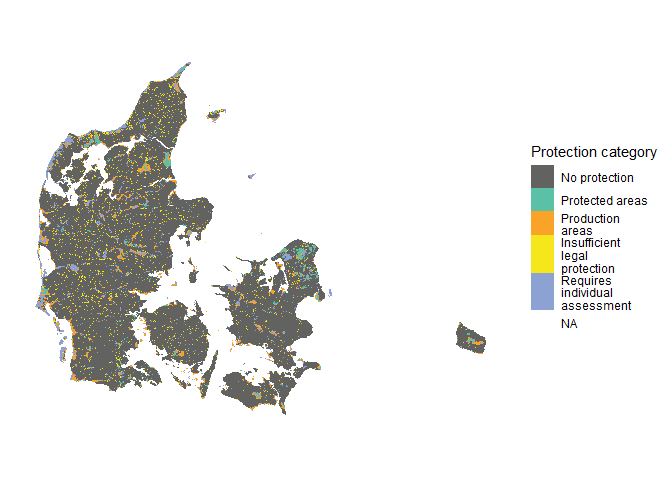
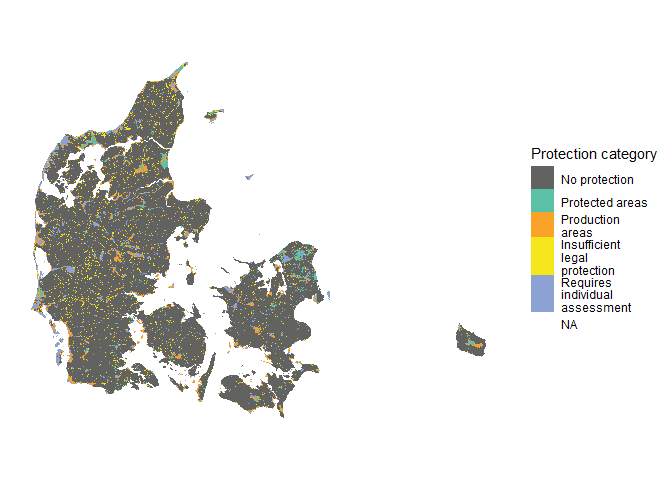
Fixed the total area of Denmark

diff --git a/README.md b/README.md
@@ -4,6 +4,7 @@
 # IdentifyingConservationGaps
 
 <!-- badges: start -->
+
 <!-- badges: end -->
 
 This repository documents the data and R code used to reproduce the
@@ -489,7 +490,7 @@ colnames(area_tbl) <- c("Protection", "area_km2")
 
 # Total land area (categories 1–5), used as denominator
 
-area_tbl$prop_land <- (area_tbl$area_km2 / 43144) * 100
+area_tbl$prop_land <- (area_tbl$area_km2 / Area_DK) * 100
 
 # Order by category code
 area_tbl <- area_tbl[order(area_tbl$Protection), ]
